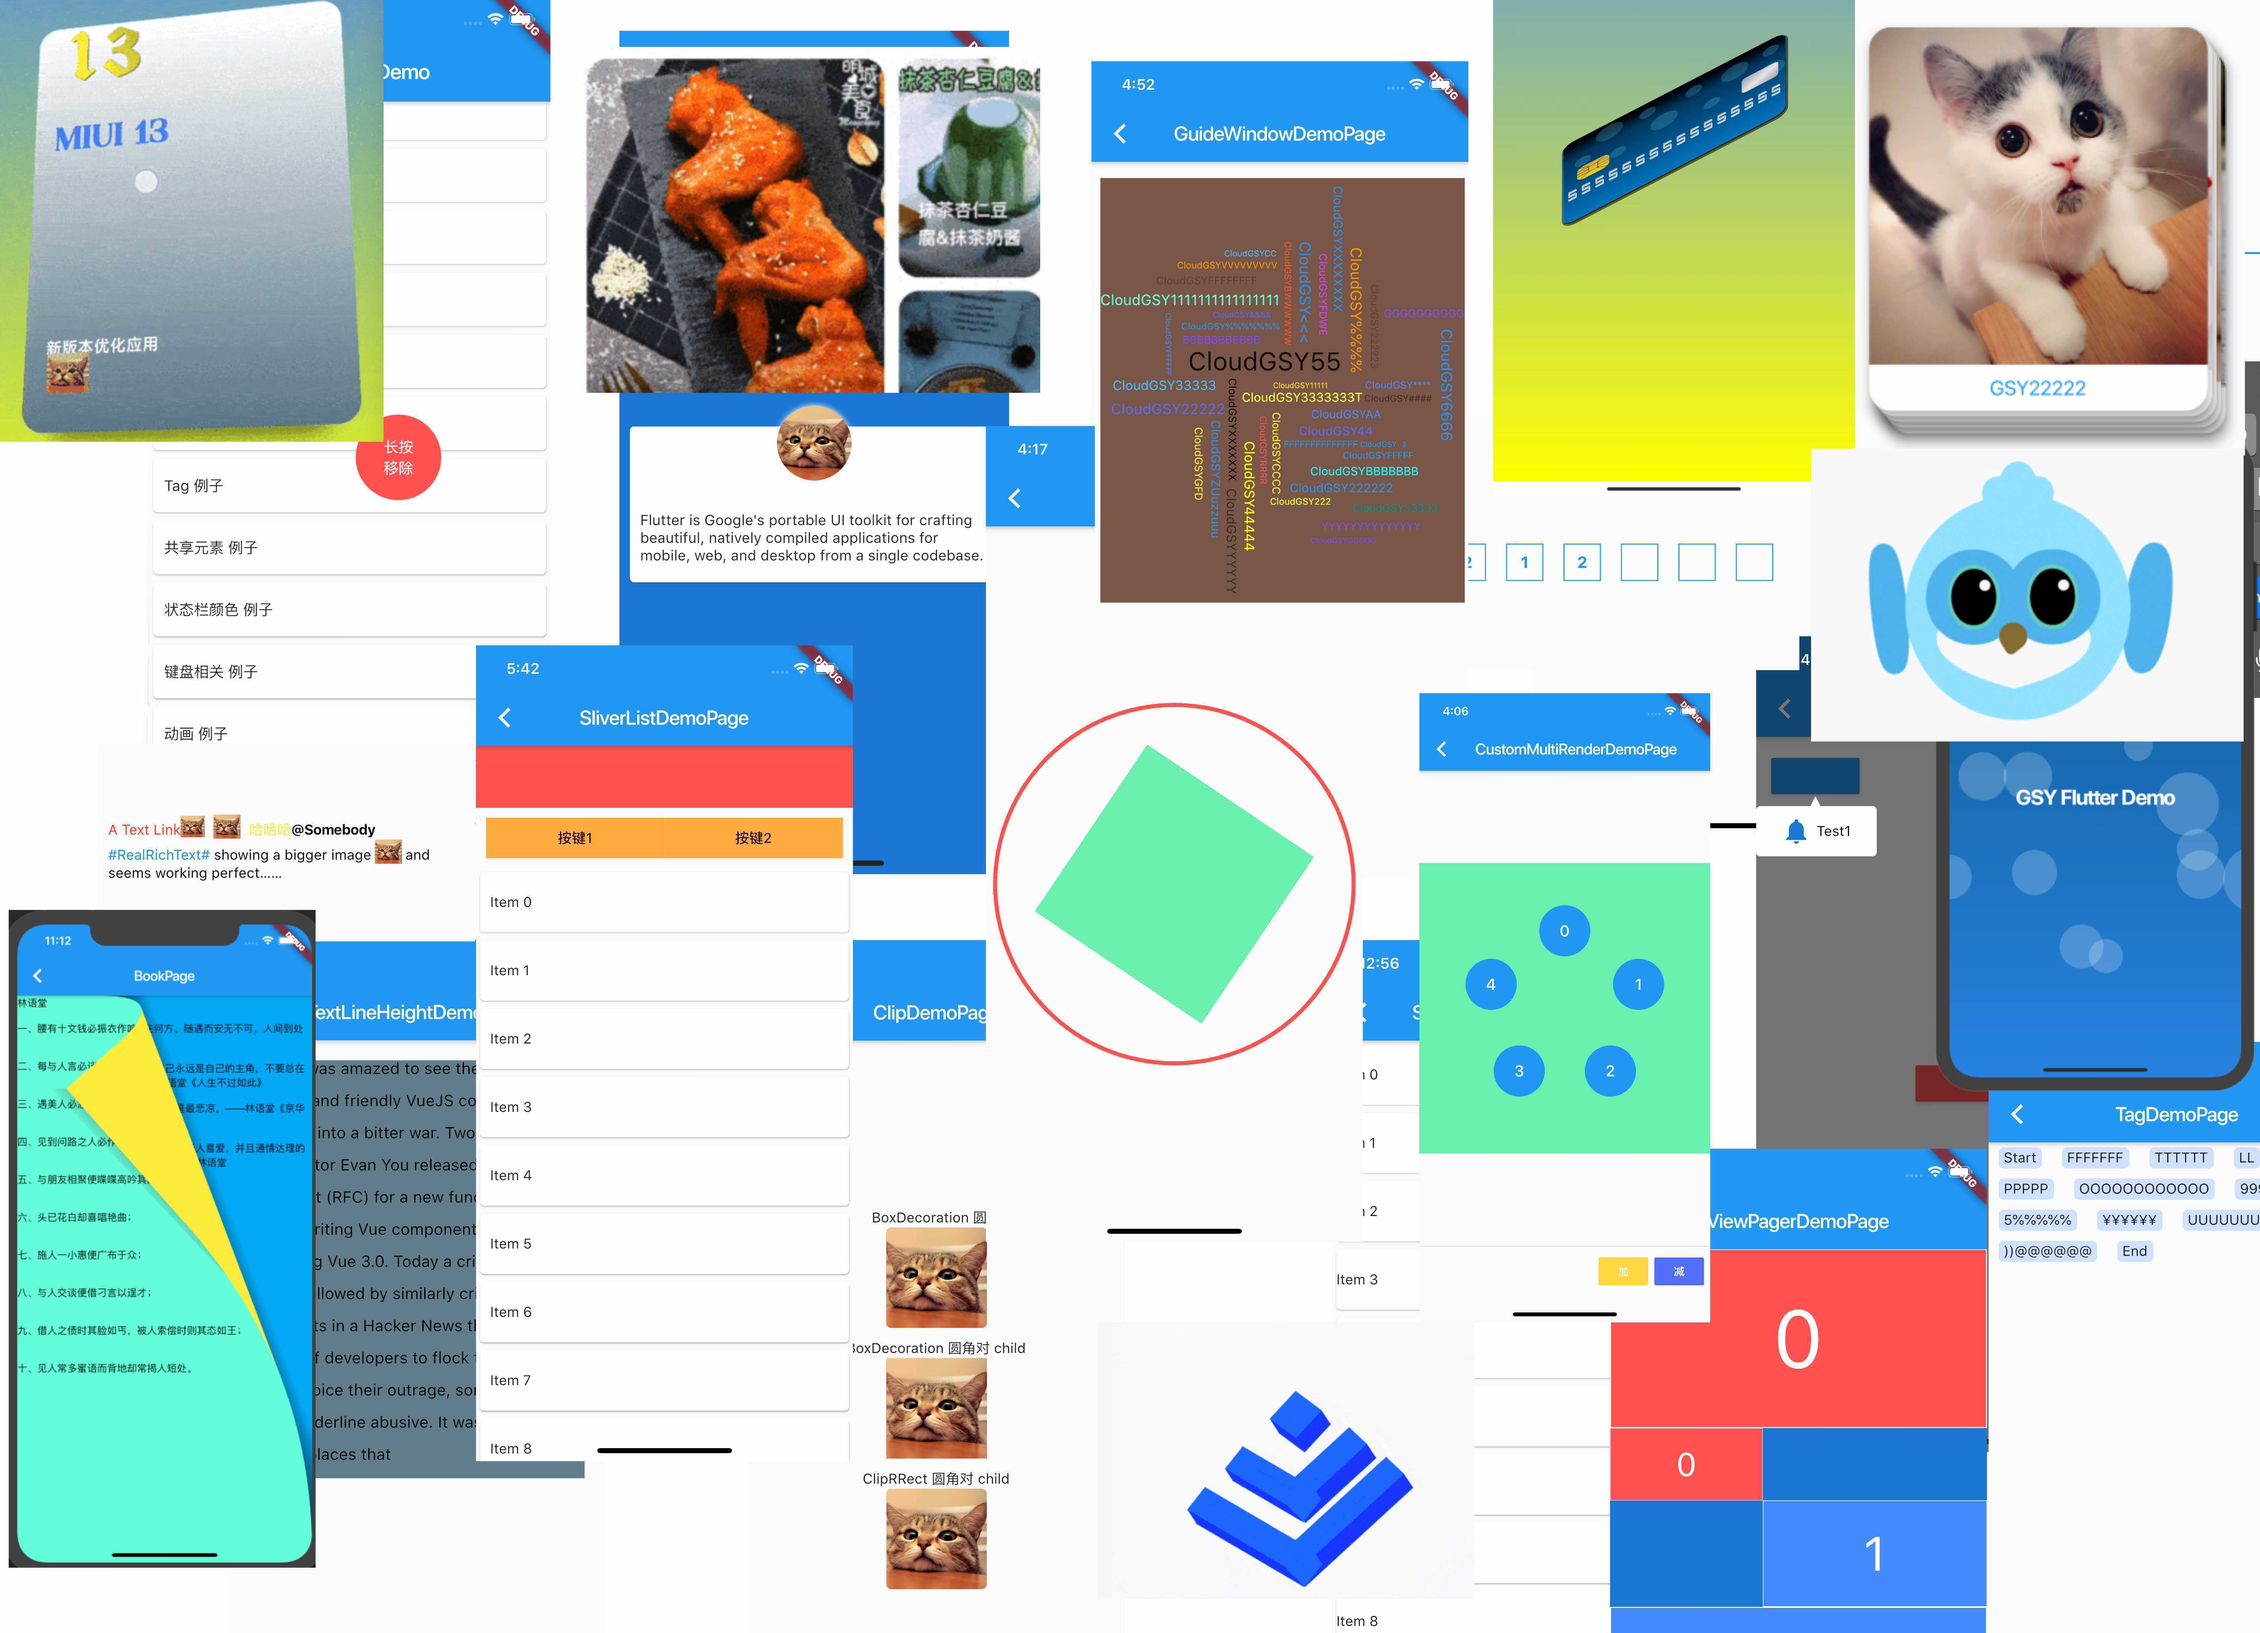
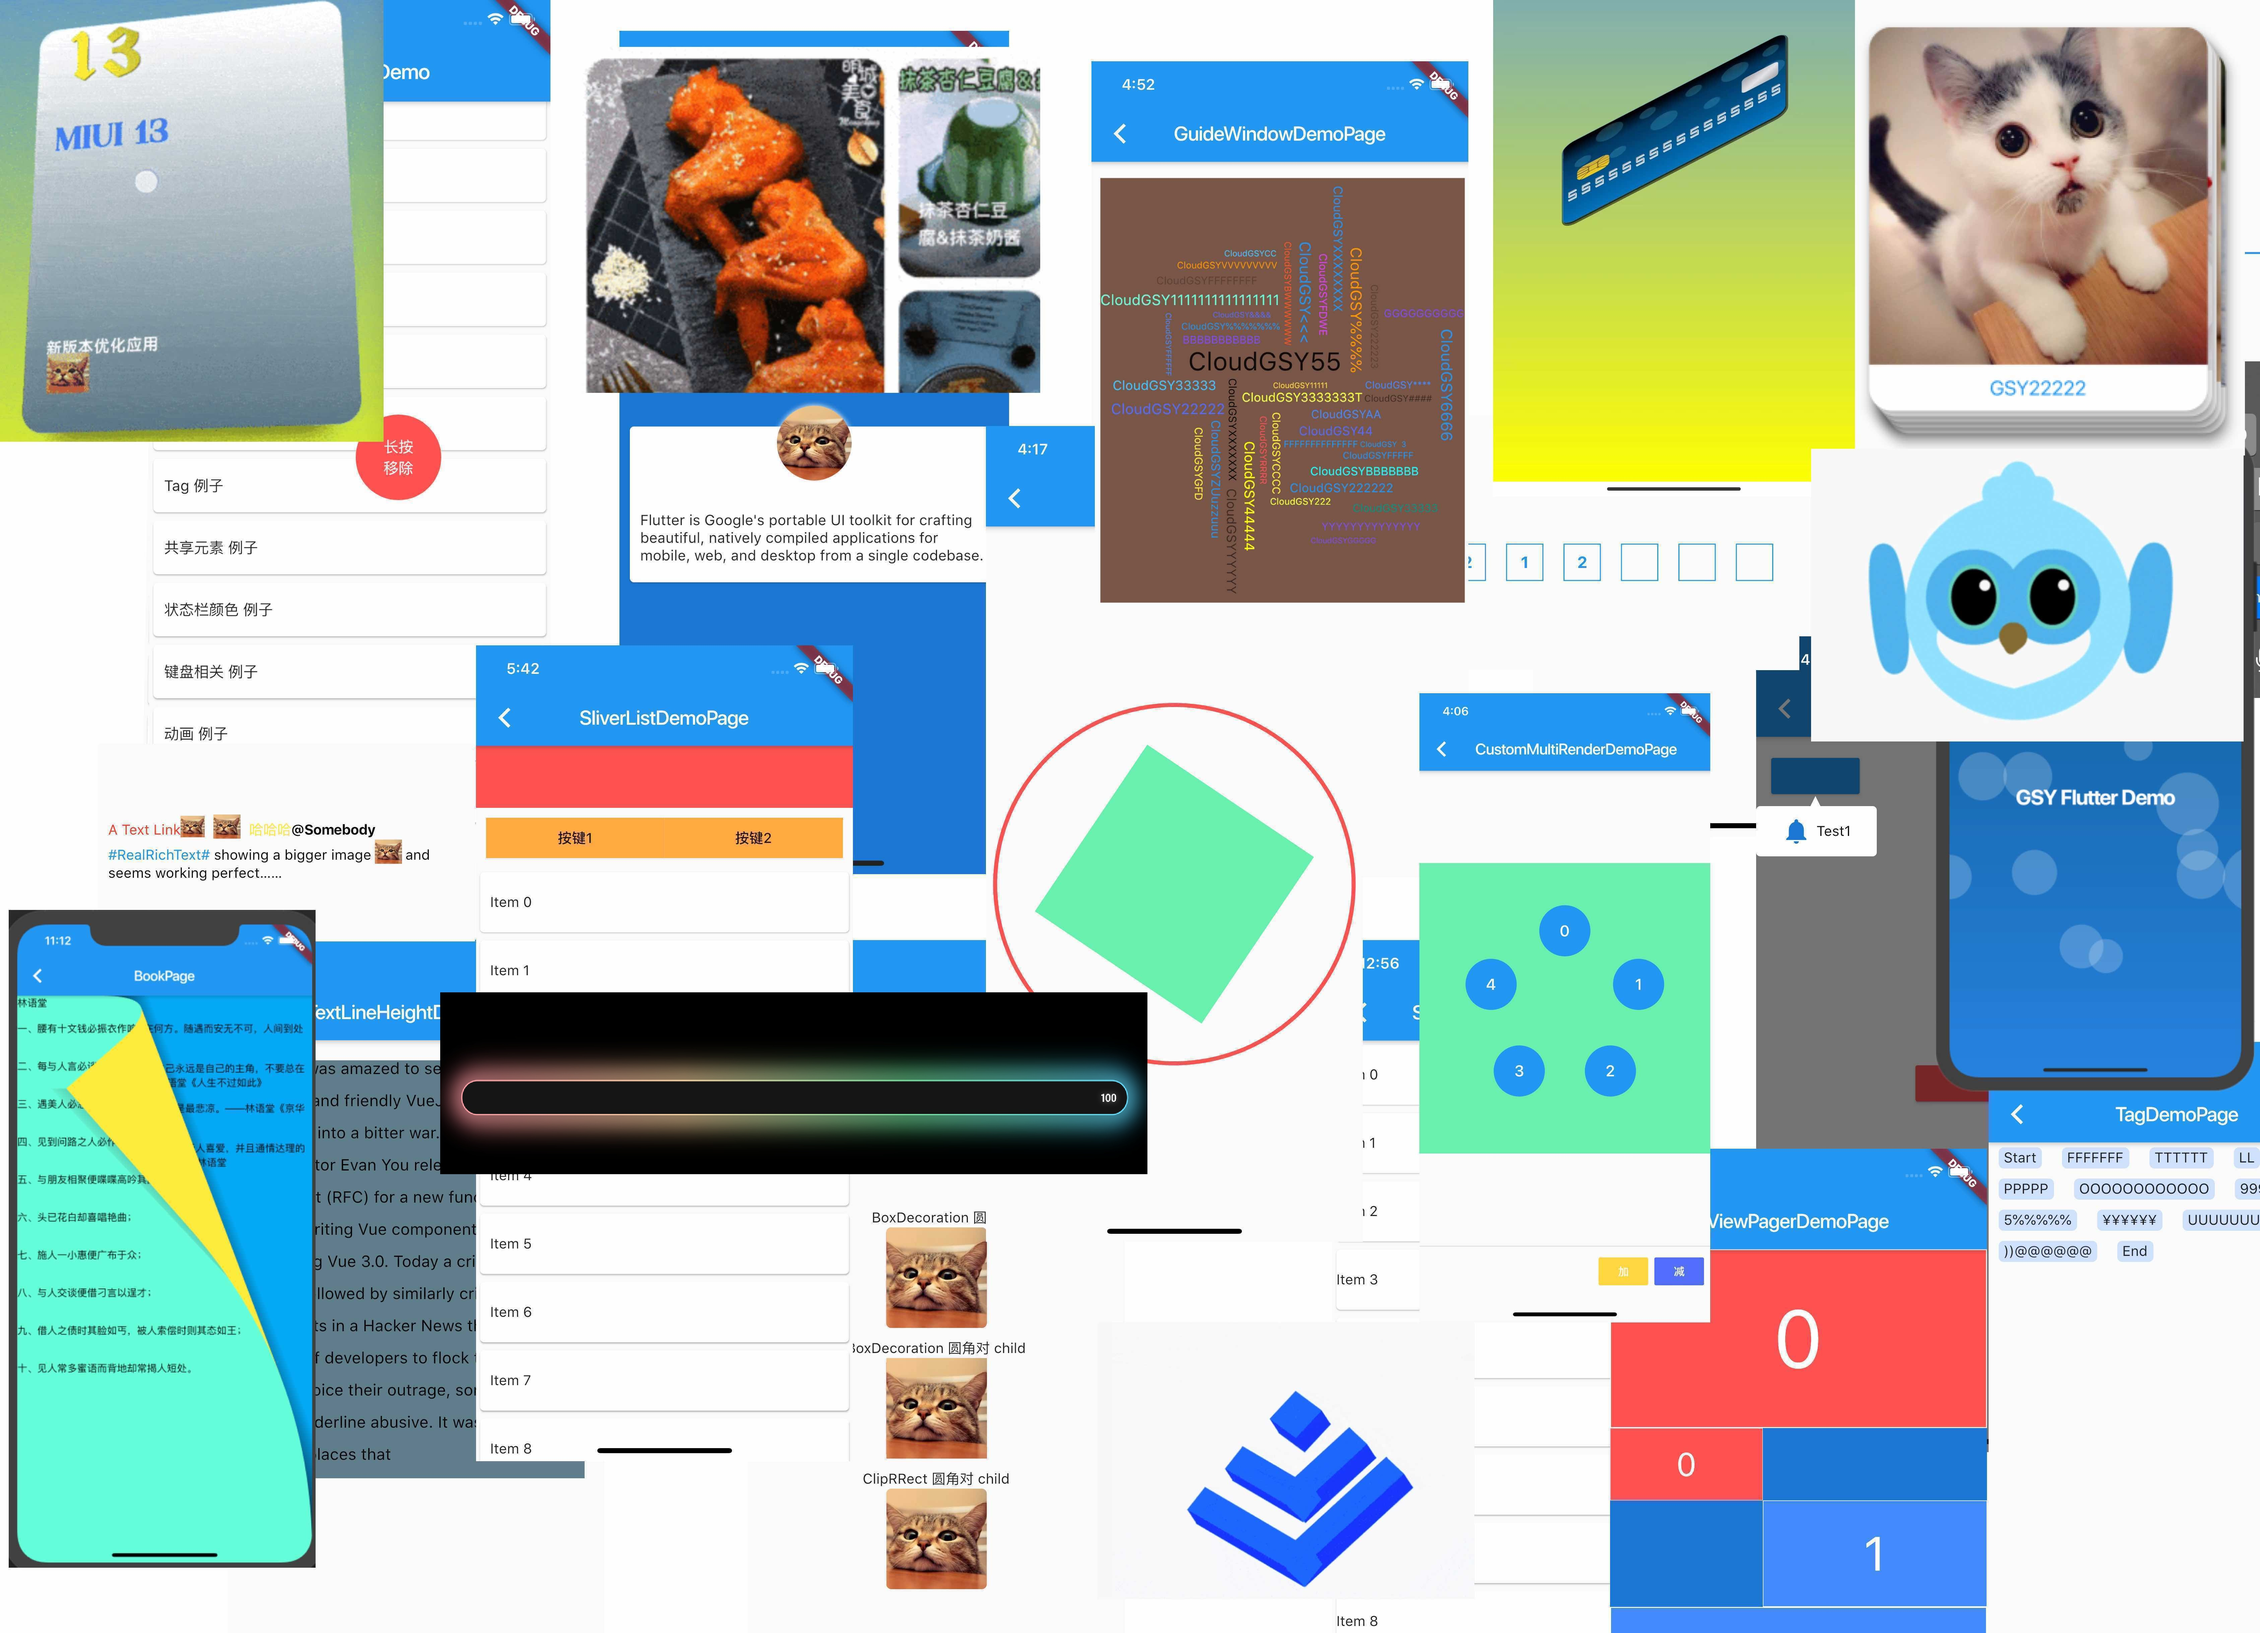
add new  slider

Changed region(s): [[0.1868, 0.5923, 0.5292, 0.717]]

diff --git a/lib/widget/neon_slider_page.dart b/lib/widget/neon_slider_page.dart
@@ -1,0 +1,292 @@
+import 'package:flutter/material.dart';
+
+class NeonSliderPage extends StatefulWidget {
+  const NeonSliderPage({super.key});
+
+  @override
+  State<NeonSliderPage> createState() => _NeonSliderPageState();
+}
+
+class _NeonSliderPageState extends State<NeonSliderPage>
+    with SingleTickerProviderStateMixin {
+  double _progress = 0.34;
+  late AnimationController _flashController;
+  late Animation<double> _flashAnimation;
+
+  // 增加一个状态标记，用于实现“迟滞”逻辑
+  bool _hasTriggeredFlash = false;
+
+  @override
+  void initState() {
+    super.initState();
+    _flashController = AnimationController(
+      vsync: this,
+      duration: const Duration(milliseconds: 700),
+    );
+    // 使用 easeOutCubic 让爆发更有力
+    _flashAnimation = CurvedAnimation(
+      parent: _flashController,
+      curve: Curves.easeOutCubic,
+    );
+  }
+
+  @override
+  void dispose() {
+    _flashController.dispose();
+    super.dispose();
+  }
+
+  void _updateProgress(double value) {
+    setState(() {
+      _progress = value;
+    });
+
+    // --- 核心修复 1: 迟滞逻辑 (Hysteresis) ---
+    // 只有当进度 >= 0.99 且之前没触发过时，才触发
+    if (value >= 0.99) {
+      if (!_hasTriggeredFlash) {
+        _hasTriggeredFlash = true;
+        _flashController.forward(from: 0.0);
+      }
+    }
+    // 只有当进度掉回到 0.90 以下时，才重置标记
+    // 这样在 0.90 - 1.0 之间随意抖动，都不会导致动画重置和频闪
+    else if (value < 0.90) {
+      if (_hasTriggeredFlash) {
+        _hasTriggeredFlash = false;
+        _flashController.reset();
+      }
+    }
+  }
+
+  @override
+  Widget build(BuildContext context) {
+    return Scaffold(
+      backgroundColor: Colors.black, // 纯黑背景
+      body: Center(
+        child: Padding(
+          padding: const EdgeInsets.symmetric(horizontal: 40),
+          child: AnimatedBuilder(
+              animation: _flashAnimation,
+              builder: (context, child) {
+                return NeonSlider(
+                  value: _progress,
+                  height: 56,
+                  flashValue: _flashAnimation.value,
+                  onChanged: _updateProgress,
+                );
+              }),
+        ),
+      ),
+    );
+  }
+}
+
+class NeonSlider extends StatelessWidget {
+  final double value;
+  final double height;
+  final double flashValue;
+  final ValueChanged<double> onChanged;
+
+  const NeonSlider({
+    super.key,
+    required this.value,
+    required this.height,
+    required this.flashValue,
+    required this.onChanged,
+  });
+
+  @override
+  Widget build(BuildContext context) {
+    return LayoutBuilder(
+      builder: (context, constraints) {
+        final width = constraints.maxWidth;
+        final int displayValue = (value * 100).round();
+
+        // 限制文字位置
+        double textWidth = width * value;
+        textWidth = textWidth < height ? height : textWidth;
+        textWidth = textWidth > width ? width : textWidth;
+
+        return GestureDetector(
+          onHorizontalDragUpdate: (details) {
+            double newValue =
+                (details.localPosition.dx / width).clamp(0.0, 1.0);
+            onChanged(newValue);
+          },
+          onTapDown: (details) {
+            double newValue =
+                (details.localPosition.dx / width).clamp(0.0, 1.0);
+            onChanged(newValue);
+          },
+          child: SizedBox(
+            height: height,
+            width: width,
+            child: Stack(
+              alignment: Alignment.centerLeft,
+              children: [
+                CustomPaint(
+                  size: Size(width, height),
+                  painter: _NeonPainter(
+                    progress: value,
+                    sliderHeight: height,
+                    flashValue: flashValue,
+                  ),
+                ),
+                if (value > 0.05)
+                  Positioned(
+                    left: 0,
+                    width: textWidth,
+                    height: height,
+                    child: Align(
+                      alignment: Alignment.centerRight,
+                      child: Padding(
+                        padding: EdgeInsets.only(right: height * 0.35),
+                        child: Text(
+                          "$displayValue",
+                          style: TextStyle(
+                            color: Colors.white,
+                            fontSize: height * 0.32,
+                            fontWeight: FontWeight.w600,
+                            fontFamily: "monospace",
+                            // 文字也跟随闪烁一点点，但不加 Blur 防止模糊
+                            shadows: flashValue > 0.1
+                                ? [
+                                    Shadow(
+                                        blurRadius: 10 * flashValue,
+                                        color:
+                                            Colors.white.withValues(alpha: 0.5))
+                                  ]
+                                : null,
+                          ),
+                        ),
+                      ),
+                    ),
+                  ),
+              ],
+            ),
+          ),
+        );
+      },
+    );
+  }
+}
+
+class _NeonPainter extends CustomPainter {
+  final double progress;
+  final double sliderHeight;
+  final double flashValue;
+
+  _NeonPainter({
+    required this.progress,
+    required this.sliderHeight,
+    required this.flashValue,
+  });
+
+  final List<Color> _neonColors = const [
+    Color(0xFFFF5F6D),
+    Color(0xFFFFC371),
+    Color(0xFF25D366),
+    Color(0xFF00C6FF),
+  ];
+
+  @override
+  void paint(Canvas canvas, Size size) {
+    final double halfHeight = sliderHeight / 2;
+    final Rect fullRect = Rect.fromLTWH(0, 0, size.width, sliderHeight);
+    final RRect fullRRect =
+        RRect.fromRectAndRadius(fullRect, Radius.circular(halfHeight));
+
+    // 1. 底板背景 (深灰色)
+    final Paint bgFillPaint = Paint()
+      ..style = PaintingStyle.fill
+      ..color = const Color(0xFF151515);
+    canvas.drawRRect(fullRRect, bgFillPaint);
+
+    // 1.1 底板边框
+    final Paint bgBorderPaint = Paint()
+      ..style = PaintingStyle.stroke
+      ..strokeWidth = 1.0
+      ..color = Colors.white.withValues(alpha: 0.1);
+    canvas.drawRRect(fullRRect, bgBorderPaint);
+
+    // --- 准备激活区域 ---
+    double activeWidth = size.width * progress;
+    activeWidth = activeWidth < sliderHeight ? sliderHeight : activeWidth;
+    final Rect activeRectBounds =
+        Rect.fromLTWH(0, 0, activeWidth, sliderHeight);
+    final RRect activeRRect =
+        RRect.fromRectAndRadius(activeRectBounds, Radius.circular(halfHeight));
+
+    // 压缩渐变 Shader
+    final Shader activeGradientShader = LinearGradient(
+      colors: _neonColors,
+      begin: Alignment.centerLeft,
+      end: Alignment.centerRight,
+    ).createShader(activeRectBounds);
+
+    // --- 核心修复 2: 移除 BlendMode.plus，改用双重绘制增强亮度 ---
+    // 这样上层的黑色遮罩就能 100% 遮住它，不会有光透出来。
+
+    // 计算光晕参数
+    double glowStrokeWidth = 8.0 + (18.0 * flashValue); // 宽度动态增加
+    double glowBlurRadius = 8.0 + (16.0 * flashValue); // 模糊动态增加
+
+    final Paint glowPaint = Paint()
+      ..style = PaintingStyle.stroke
+      ..strokeWidth = glowStrokeWidth
+      ..shader = activeGradientShader
+      ..maskFilter = MaskFilter.blur(BlurStyle.normal, glowBlurRadius);
+
+    // 第一次绘制光晕：基础层
+    // 使用 withOpacity 降低一点透明度，让光晕柔和
+    glowPaint.color = Colors.white.withValues(alpha: 0.6);
+    canvas.drawRRect(activeRRect, glowPaint);
+
+    // 第二次绘制光晕：核心亮层 (仅在闪光较强时叠加)
+    // 这种叠加方式比 BlendMode.plus 安全，不会穿透遮罩
+    if (flashValue > 0.1) {
+      final Paint glowHighLightPaint = Paint()
+        ..style = PaintingStyle.stroke
+        ..strokeWidth = glowStrokeWidth * 0.8 // 稍微细一点
+        ..shader = activeGradientShader
+        ..maskFilter = MaskFilter.blur(BlurStyle.normal, glowBlurRadius * 0.8);
+
+      // 这里加一点白色滤镜来提亮，而不是用 BlendMode
+      glowHighLightPaint.colorFilter = ColorFilter.mode(
+          Colors.white.withValues(alpha: 0.5 * flashValue), BlendMode.srcATop);
+
+      canvas.drawRRect(activeRRect, glowHighLightPaint);
+    }
+
+    // --- 3. 遮罩层 (Occlusion) ---
+    // 纯黑遮挡，确保中间是黑的
+    final Paint occlusionPaint = Paint()
+      ..style = PaintingStyle.fill
+      ..color = const Color(0xFF151515);
+
+    // 技巧：为了防止微小的抗锯齿缝隙漏光，我们把遮挡层极其微小地向外扩充 0.5 像素
+    // 或者保持原样，因为去掉了 BlendMode.plus，普通遮挡通常就足够了。
+    canvas.drawRRect(activeRRect, occlusionPaint);
+
+    // --- 4. 顶层清晰边框 ---
+    final Paint activeBorderPaint = Paint()
+      ..style = PaintingStyle.stroke
+      ..strokeWidth = 2.0
+      ..shader = activeGradientShader;
+
+    // 闪光时，实体边框也加白提亮，营造“过曝”感
+    if (flashValue > 0) {
+      activeBorderPaint.colorFilter = ColorFilter.mode(
+          Colors.white.withValues(alpha: 0.4 * flashValue), BlendMode.srcATop);
+    }
+
+    canvas.drawRRect(activeRRect, activeBorderPaint);
+  }
+
+  @override
+  bool shouldRepaint(covariant _NeonPainter oldDelegate) {
+    return oldDelegate.progress != progress ||
+        oldDelegate.flashValue != flashValue;
+  }
+}

diff --git a/lib/main.dart b/lib/main.dart
@@ -234,6 +234,9 @@ import 'package:gsy_flutter_demo/widget/fibonacci_sphere_page.dart'
 import 'package:gsy_flutter_demo/widget/galaxy_scene_page.dart'
     deferred as galaxy_scene_page;
 
+import 'package:gsy_flutter_demo/widget/neon_slider_page.dart'
+    deferred as neon_slider_page;
+
 import 'package:window_location_href/window_location_href.dart';
 
 void main() {
@@ -999,6 +1002,12 @@ Map<String, WidgetBuilder> routers = {
       return galaxy_scene_page.GalaxyScene();
     });
   },
+  "霓虹滑块，100%高亮": (context) {
+    return ContainerAsyncRouterPage(neon_slider_page.loadLibrary(), (context) {
+      return neon_slider_page.NeonSliderPage();
+    });
+  },
+
 };
 
 enum Cat {
